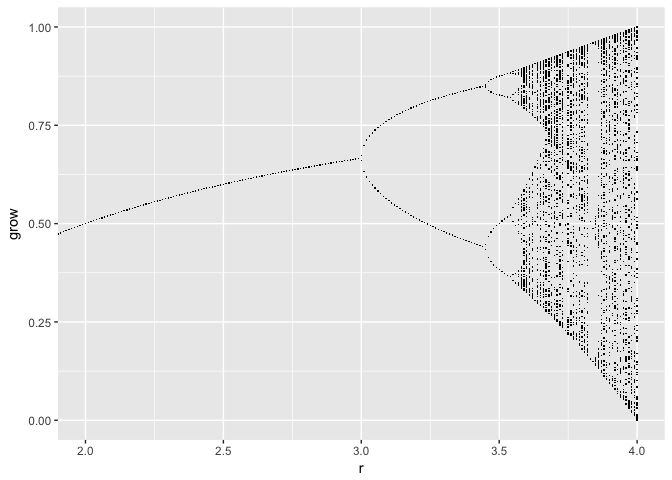
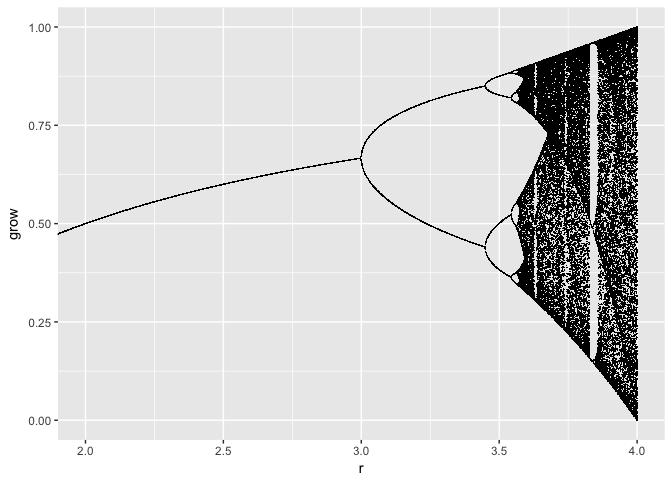
Increase granularity in README example.

Changed region(s): [[0.75, 0.0625, 0.9688, 0.875]]

diff --git a/README.md b/README.md
@@ -20,7 +20,7 @@ library(chaos)
     ## Loading required package: ggplot2
 
 ``` r
-x <- logistic_map(rstep = 1e-2)
+x <- logistic_map(rstep = 1e-3)
 plot(x, xlim = c(2, 4))
 ```
 
